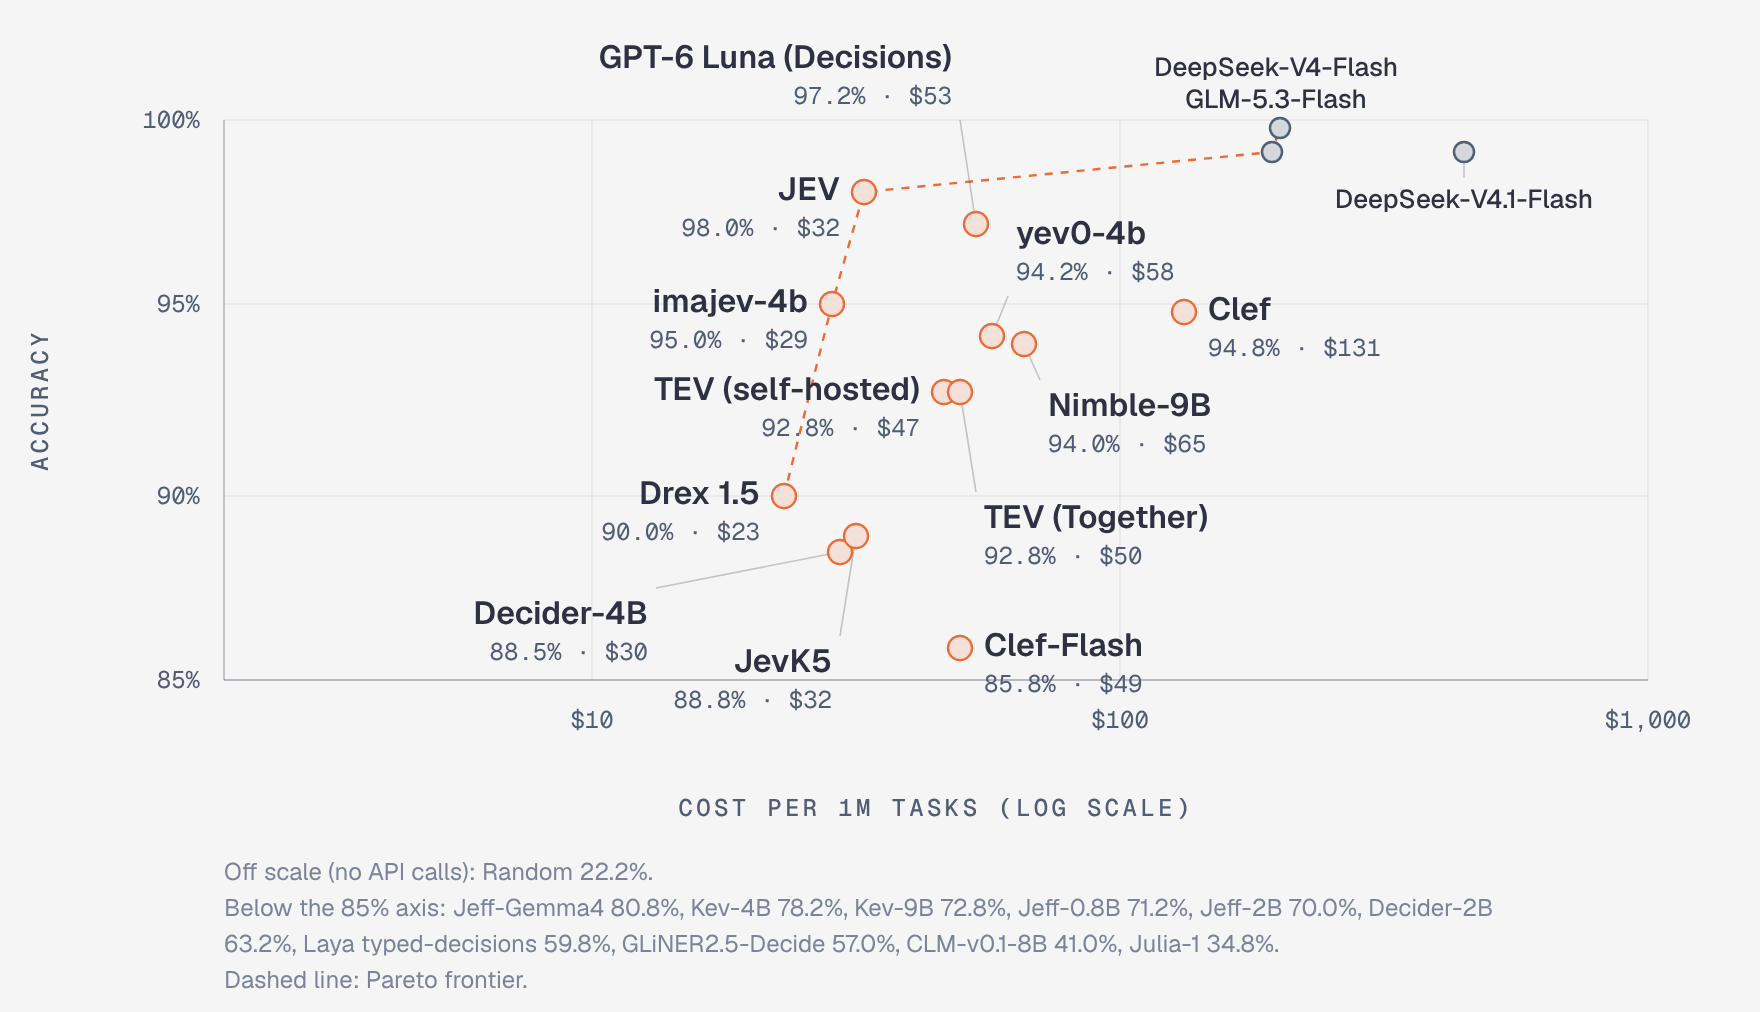
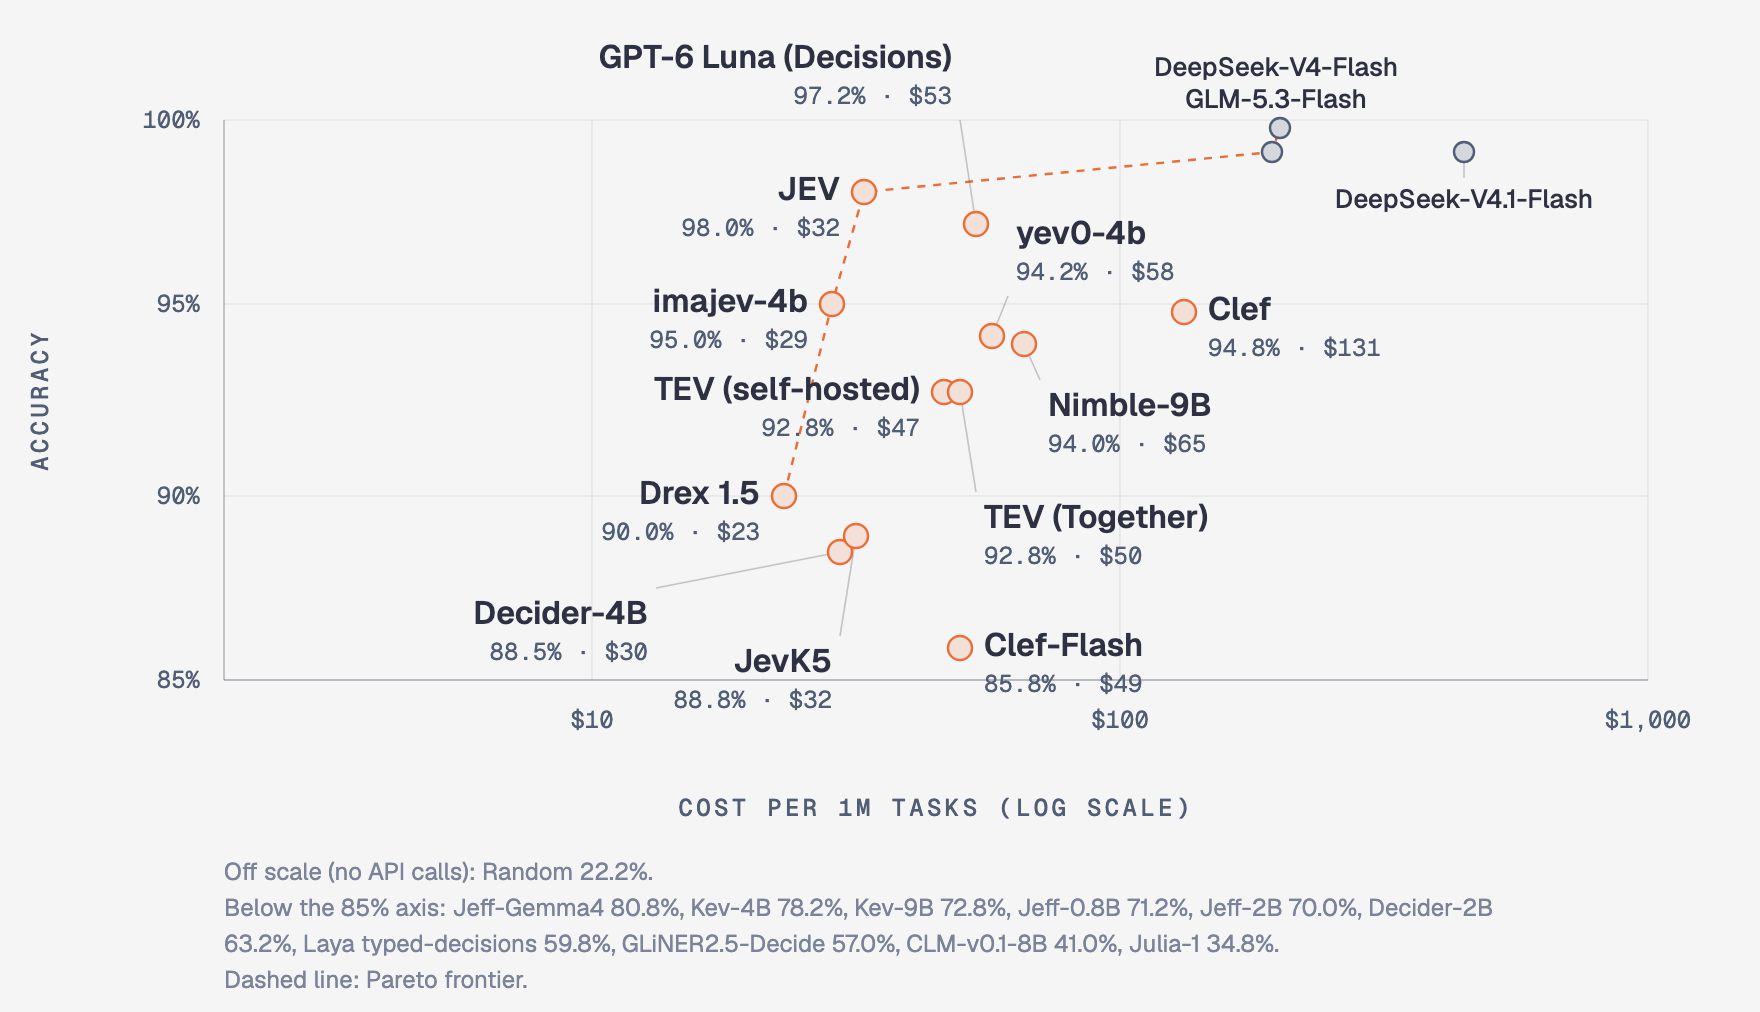
Render charts on macOS Chrome; keep point labels off the y-axis ticks

diff --git a/docs/diagrams/latency-vs-accuracy.html b/docs/diagrams/latency-vs-accuracy.html
@@ -23,8 +23,8 @@
 <line x1="112" y1="136" x2="112" y2="416" stroke="rgba(45,49,66,0.25)" stroke-width="1"/>
 <line x1="112" y1="416" x2="824" y2="416" stroke="rgba(45,49,66,0.25)" stroke-width="1"/>
 <polyline points="148,188 308,152 564,140" fill="none" stroke="#eb6c36" stroke-width="1.2" stroke-dasharray="4 4"/>
-<line x1="148" y1="188" x2="148" y2="198" stroke="rgba(45,49,66,0.25)" stroke-width="0.8"/>
-<line x1="400" y1="172" x2="392" y2="174" stroke="rgba(45,49,66,0.25)" stroke-width="0.8"/>
+<line x1="148" y1="188" x2="156" y2="190" stroke="rgba(45,49,66,0.25)" stroke-width="0.8"/>
+<line x1="400" y1="172" x2="408" y2="174" stroke="rgba(45,49,66,0.25)" stroke-width="0.8"/>
 <line x1="404" y1="152" x2="412" y2="132" stroke="rgba(45,49,66,0.25)" stroke-width="0.8"/>
 <line x1="308" y1="152" x2="308" y2="144" stroke="rgba(45,49,66,0.25)" stroke-width="0.8"/>
 <circle cx="564" cy="140" r="5" fill="#f5f5f5"/>
@@ -48,16 +48,16 @@
 <text x="576.0" y="144.0" fill="#2d3142" font-size="13" font-family="'Geist', system-ui, sans-serif" font-weight="500" text-anchor="start" >DeepSeek-V4-Flash</text>
 <text x="308.0" y="136.0" fill="#2d3142" font-size="13" font-family="'Geist', system-ui, sans-serif" font-weight="500" text-anchor="middle" >DeepSeek-V4.1-Flash</text>
 <text x="416.0" y="124.0" fill="#2d3142" font-size="13" font-family="'Geist', system-ui, sans-serif" font-weight="500" text-anchor="start" >GLM-5.3-Flash</text>
-<text x="388.0" y="192.0" fill="#2d3142" font-size="16" font-family="'Geist', system-ui, sans-serif" font-weight="600" text-anchor="end" >JEV</text>
-<text x="388.0" y="210.0" fill="#4f5d75" font-size="12" font-family="'Geist Mono', ui-monospace, monospace" font-weight="400" text-anchor="end" >98.0% · 639 ms</text>
+<text x="412.0" y="192.0" fill="#2d3142" font-size="16" font-family="'Geist', system-ui, sans-serif" font-weight="600" text-anchor="start" >JEV</text>
+<text x="412.0" y="210.0" fill="#4f5d75" font-size="12" font-family="'Geist Mono', ui-monospace, monospace" font-weight="400" text-anchor="start" >98.0% · 639 ms</text>
 <text x="448.0" y="236.0" fill="#2d3142" font-size="16" font-family="'Geist', system-ui, sans-serif" font-weight="600" text-anchor="start" >Clef</text>
 <text x="448.0" y="254.0" fill="#4f5d75" font-size="12" font-family="'Geist Mono', ui-monospace, monospace" font-weight="400" text-anchor="start" >94.8% · 811 ms</text>
 <text x="424.0" y="404.0" fill="#2d3142" font-size="16" font-family="'Geist', system-ui, sans-serif" font-weight="600" text-anchor="start" >Clef-Flash</text>
 <text x="424.0" y="422.0" fill="#4f5d75" font-size="12" font-family="'Geist Mono', ui-monospace, monospace" font-weight="400" text-anchor="start" >85.8% · 695 ms</text>
 <text x="184.0" y="328.0" fill="#2d3142" font-size="16" font-family="'Geist', system-ui, sans-serif" font-weight="600" text-anchor="start" >Drex 1.5</text>
 <text x="184.0" y="346.0" fill="#4f5d75" font-size="12" font-family="'Geist Mono', ui-monospace, monospace" font-weight="400" text-anchor="start" >90.0% · 147 ms</text>
-<text x="148.0" y="216.0" fill="#2d3142" font-size="16" font-family="'Geist', system-ui, sans-serif" font-weight="600" text-anchor="middle" >GPT-6 Luna (Decisions)</text>
-<text x="148.0" y="234.0" fill="#4f5d75" font-size="12" font-family="'Geist Mono', ui-monospace, monospace" font-weight="400" text-anchor="middle" >97.2% · 126 ms</text>
+<text x="160.0" y="208.0" fill="#2d3142" font-size="16" font-family="'Geist', system-ui, sans-serif" font-weight="600" text-anchor="start" >GPT-6 Luna (Decisions)</text>
+<text x="160.0" y="226.0" fill="#4f5d75" font-size="12" font-family="'Geist Mono', ui-monospace, monospace" font-weight="400" text-anchor="start" >97.2% · 126 ms</text>
 <text x="228.0" y="276.0" fill="#2d3142" font-size="16" font-family="'Geist', system-ui, sans-serif" font-weight="600" text-anchor="start" >TEV (Together)</text>
 <text x="228.0" y="294.0" fill="#4f5d75" font-size="12" font-family="'Geist Mono', ui-monospace, monospace" font-weight="400" text-anchor="start" >92.8% · 197 ms</text>
 <text x="112" y="516" fill="#7a8399" font-size="12" font-family="'Geist', system-ui, sans-serif" font-weight="400" text-anchor="start" >Off scale (no API calls): Random 22.2%.</text>

diff --git a/decidebench/charts.py b/decidebench/charts.py
@@ -280,8 +280,9 @@ def frontier_scatter(slug, title, summ, front, x_of, x_label, x_lo, x_hi, x_tick
     line_boxes = [(ax + (bx - ax) * t / 20 - 2, ay + (by - ay) * t / 20 - 2, ax + (bx - ax) * t / 20 + 2,
                    ay + (by - ay) * t / 20 + 2)
                   for (ax, ay), (bx, by) in zip(frontier_line, frontier_line[1:]) for t in range(21)]
+    tick_boxes = [(x0 - 52, Y(acc) - 10, x0 - 8, Y(acc) + 8) for acc in (85, 90, 95, 100)]
     where = place_labels({p: at[p] for p in order}, texts, PLACE, bounds=(8, dy + 8, W - 8, y0 + 40),
-                         obstacles=line_boxes)
+                         obstacles=line_boxes + tick_boxes)
     dots_at = len(s)
     for p in sorted(api, key=lambda p: p in systems):
         x, y = xy[p]
